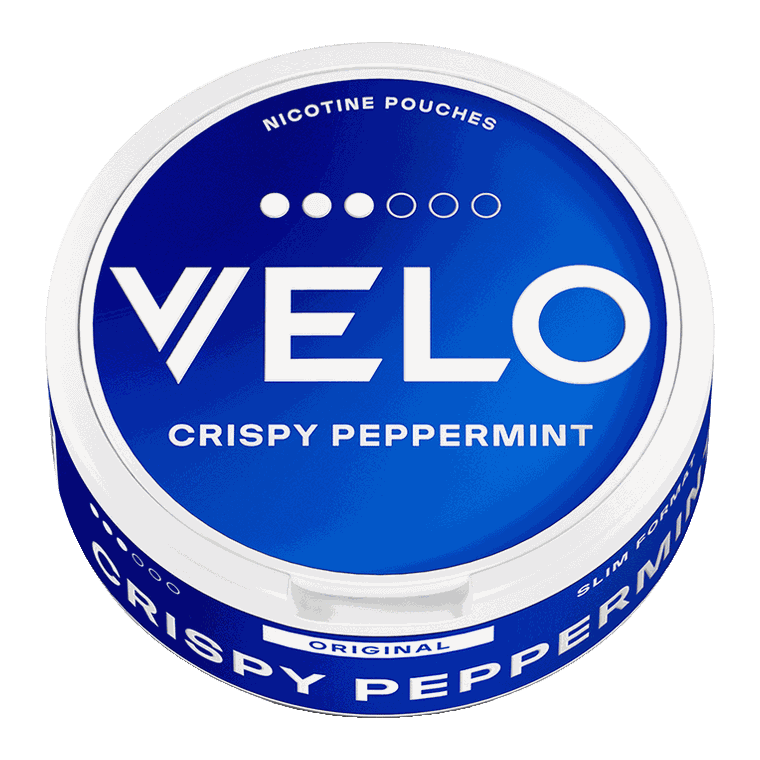
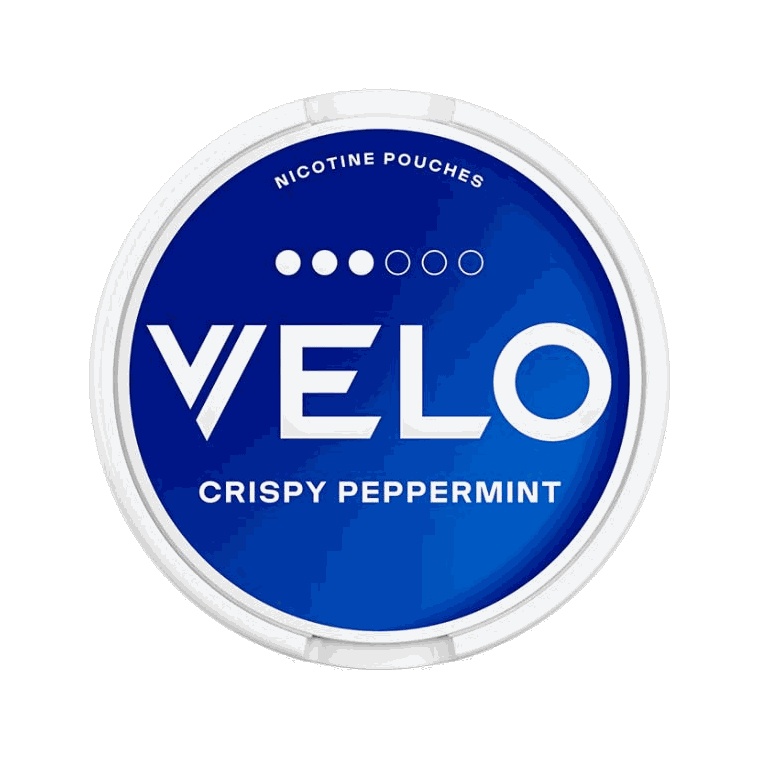
Tarjetas: fila de compra más compacta y fotos cenitales parejas
- Crispy Peppermint y Freezing Peppermint 14 mg pasan a foto cenital, como
  el resto del catálogo (las de Northerner venían en ángulo)
- Fuera el "por lata" de debajo del precio
- Los mg y los puntos de intensidad van en una sola línea: en celular se
  cae la palabra "Fuerza", que los puntos ya se entienden solos
- "Agregar" pasa a "+ Add"; en celular queda solo el símbolo en un botón
  redondo, porque con texto no cabía junto al precio en dos columnas y se
  salía del borde de la tarjeta

diff --git a/assets/css/styles.css b/assets/css/styles.css
@@ -496,21 +496,24 @@ h1,h2,h3,h4{
 .card__name{font-size:clamp(17px,1.9vw,21px);margin:6px 0 11px;letter-spacing:-.02em}
 .card__note{font-size:13.2px;line-height:1.5;color:var(--char-soft);margin:0 0 15px;flex:1}
 
-.card__meta{display:flex;align-items:center;gap:11px;margin-bottom:14px;flex-wrap:wrap;margin-top:auto}
-.meta{display:flex;align-items:center;gap:6px;font-size:11px;letter-spacing:.09em;text-transform:uppercase;color:var(--char-soft);font-weight:600}
+.card__meta{display:flex;align-items:center;gap:11px;margin-bottom:14px;flex-wrap:nowrap;margin-top:auto}
+.meta{display:flex;align-items:center;gap:6px;font-size:11px;letter-spacing:.09em;text-transform:uppercase;color:var(--char-soft);font-weight:600;white-space:nowrap}
 .dots{display:flex;gap:3px}
 .dots i{width:6px;height:6px;border-radius:50%;background:var(--stone-dk)}
 .dots i.on{background:var(--forest)}
 
-.card__buy{display:flex;align-items:center;gap:12px;margin-top:auto}
+.card__buy{display:flex;align-items:center;gap:10px;margin-top:auto}
 .price{font-family:var(--f-disp);font-weight:900;font-size:21px;letter-spacing:-.02em;line-height:1}
-.price small{font-size:11px;font-weight:700;letter-spacing:.1em;color:var(--char-soft);display:block;margin-top:3px}
+
 .card__add{
-  margin-left:auto;padding:11px 17px;border-radius:100px;
+  margin-left:auto;flex:none;display:inline-flex;align-items:center;gap:7px;
+  padding:10px 16px 10px 13px;border-radius:100px;
   background:var(--forest);color:var(--cream);font-family:var(--f-disp);font-weight:800;
   font-size:12.5px;letter-spacing:.07em;text-transform:uppercase;
   transition:all .3s var(--ease);
 }
+.card__add svg{width:15px;height:15px;stroke-width:2.6;flex:none}
+.card__add--off{padding:10px 16px}
 .card__add:hover{background:var(--gold);color:var(--forest-dk);transform:translateY(-2px);box-shadow:0 10px 20px -8px rgba(212,162,28,.85)}
 .card__add:disabled{background:var(--stone-dk);color:rgba(31,42,36,.42);cursor:not-allowed;transform:none;box-shadow:none}
 
@@ -784,7 +787,14 @@ body.intro-lock{overflow:hidden}
   .card__note{display:none}
   .card__meta{gap:9px;margin-bottom:12px}
   .price{font-size:20px}
-  .card__add{padding:10px 14px;font-size:11px}
+  /* La tarjeta en dos columnas no da para precio + botón con texto: el botón
+     se queda solo con el símbolo y "Fuerza" se cae, que los puntos ya se
+     entienden solos. */
+  .meta__lbl{display:none}
+  .card__add{width:38px;height:38px;padding:0;gap:0;justify-content:center}
+  .card__add span{display:none}
+  .card__add svg{width:17px;height:17px}
+  .card__add--off{width:auto;height:auto;padding:9px 13px;font-size:10.5px}
   .card__buy{gap:7px}
   .stepper button{width:28px;height:28px}
   .cart{width:100%;border-radius:0}
@@ -826,7 +836,6 @@ body.intro-lock{overflow:hidden}
 }
 @media (max-width:380px){
   .grid{grid-template-columns:1fr 1fr;gap:10px}
-  .card__add span{display:none}
 }
 
 @media (prefers-reduced-motion:reduce){

diff --git a/assets/js/app.js b/assets/js/app.js
@@ -446,15 +446,17 @@
     if (agotado) tags += '<span class="tag tag--out">Agotado</span>';
     else if (bajo) tags += '<span class="tag tag--low">Quedan ' + p.stock + '</span>';
 
+    var mas = '<svg viewBox="0 0 24 24" aria-hidden="true"><path d="M12 5v14M5 12h14"/></svg>';
     var accion = agotado
-      ? '<button class="card__add" disabled>Agotado</button>'
+      ? '<button class="card__add card__add--off" disabled>Agotado</button>'
       : (enCarrito
           ? '<div class="stepper">' +
               '<button data-minus="' + p.id + '" aria-label="Quitar uno"><svg viewBox="0 0 24 24"><path d="M5 12h14"/></svg></button>' +
               '<span>' + enCarrito + '</span>' +
               '<button data-plus="' + p.id + '" aria-label="Agregar uno"><svg viewBox="0 0 24 24"><path d="M12 5v14M5 12h14"/></svg></button>' +
             '</div>'
-          : '<button class="card__add" data-plus="' + p.id + '">Agregar</button>');
+          : '<button class="card__add" data-plus="' + p.id + '" aria-label="Agregar ' +
+            p.sabor + ' al pedido">' + mas + '<span>Add</span></button>');
 
     return '' +
     '<article class="card reveal' + (agotado ? " is-out" : "") + '" data-id="' + p.id + '" ' +
@@ -469,10 +471,10 @@
         '<h3 class="card__name">' + p.sabor + '</h3>' +
         '<div class="card__meta">' +
           '<span class="meta">' + p.nicotina + '</span>' +
-          '<span class="meta">Fuerza ' + fuerzaDots(p) + '</span>' +
+          '<span class="meta"><span class="meta__lbl">Fuerza</span>' + fuerzaDots(p) + '</span>' +
         '</div>' +
         '<div class="card__buy">' +
-          '<span class="price">' + fmtH(p.precio) + '<small>por lata</small></span>' +
+          '<span class="price">' + fmtH(p.precio) + '</span>' +
           accion +
         '</div>' +
       '</div>' +
